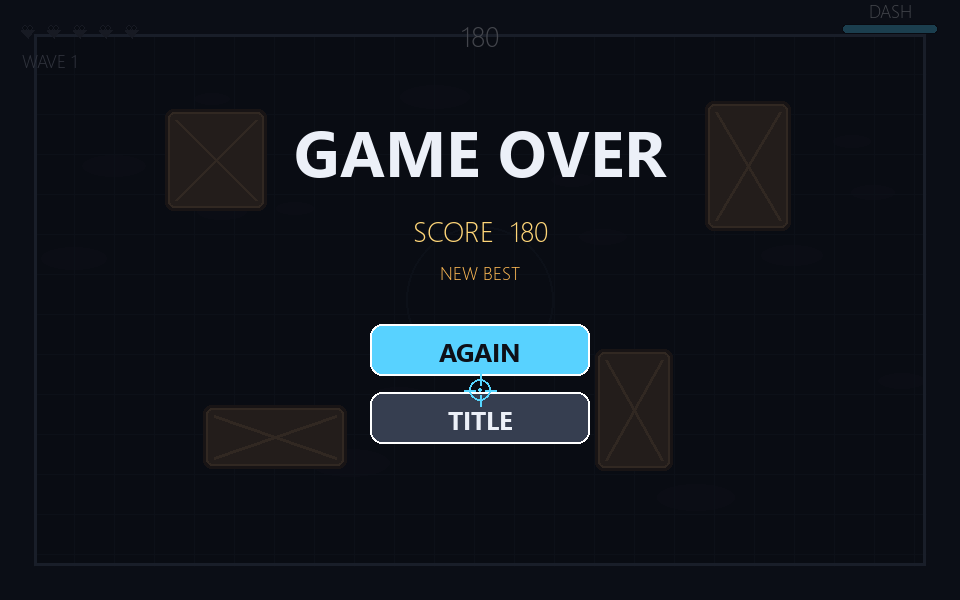
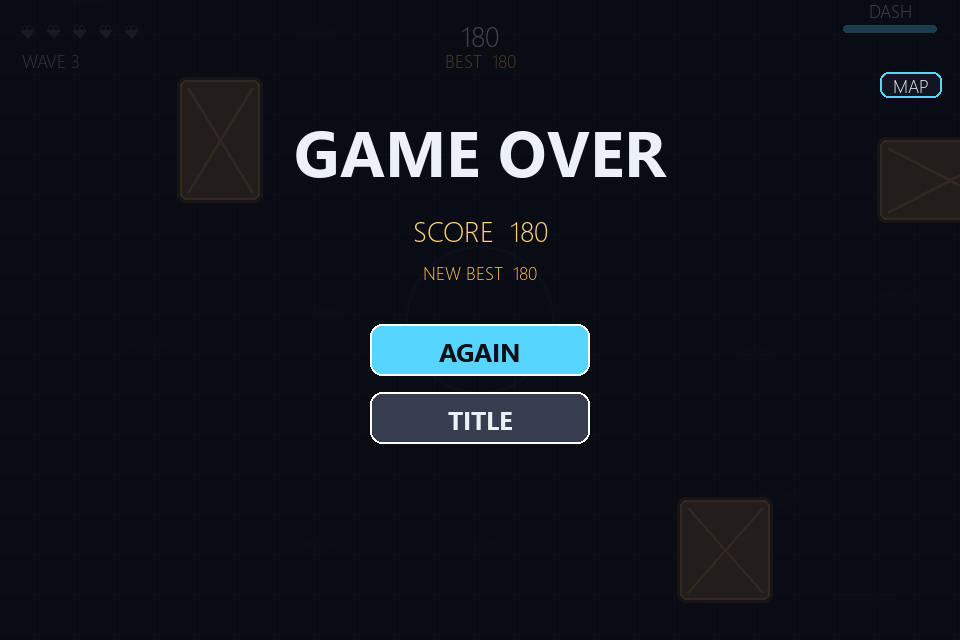
Update the README screenshots and add Kiln and Veil.

diff --git a/README.md b/README.md
@@ -9,9 +9,13 @@ and grab hearts before the next wave starts.
 
 ## Screenshots
 
-| Title | In the arena | Game over |
+| Title | Deduction | Game over |
 | --- | --- | --- |
-| ![Title screen](screenshots/title.png) | ![Arena fight](screenshots/fight.png) | ![Game over](screenshots/over.png) |
+| ![Title screen](screenshots/title.png) | ![Deduction](screenshots/fight.png) | ![Game over](screenshots/over.png) |
+
+| Kiln | Veil |
+| --- | --- |
+| ![Kiln](screenshots/kiln.png) | ![Veil](screenshots/veil.png) |
 
 ## Features
 
